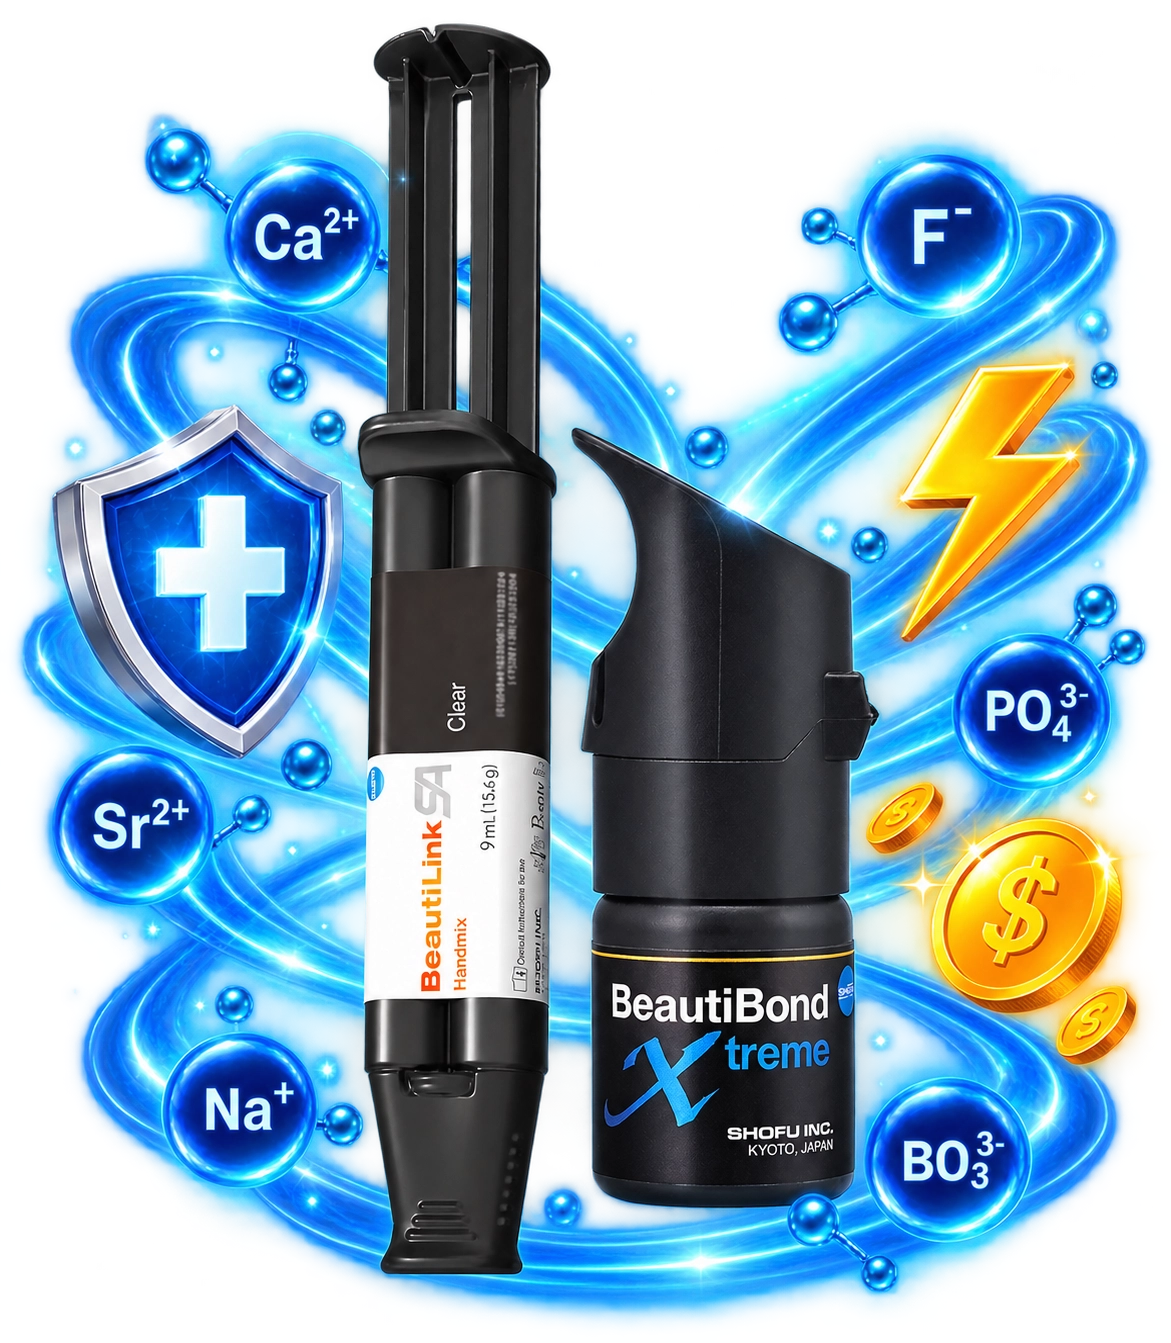
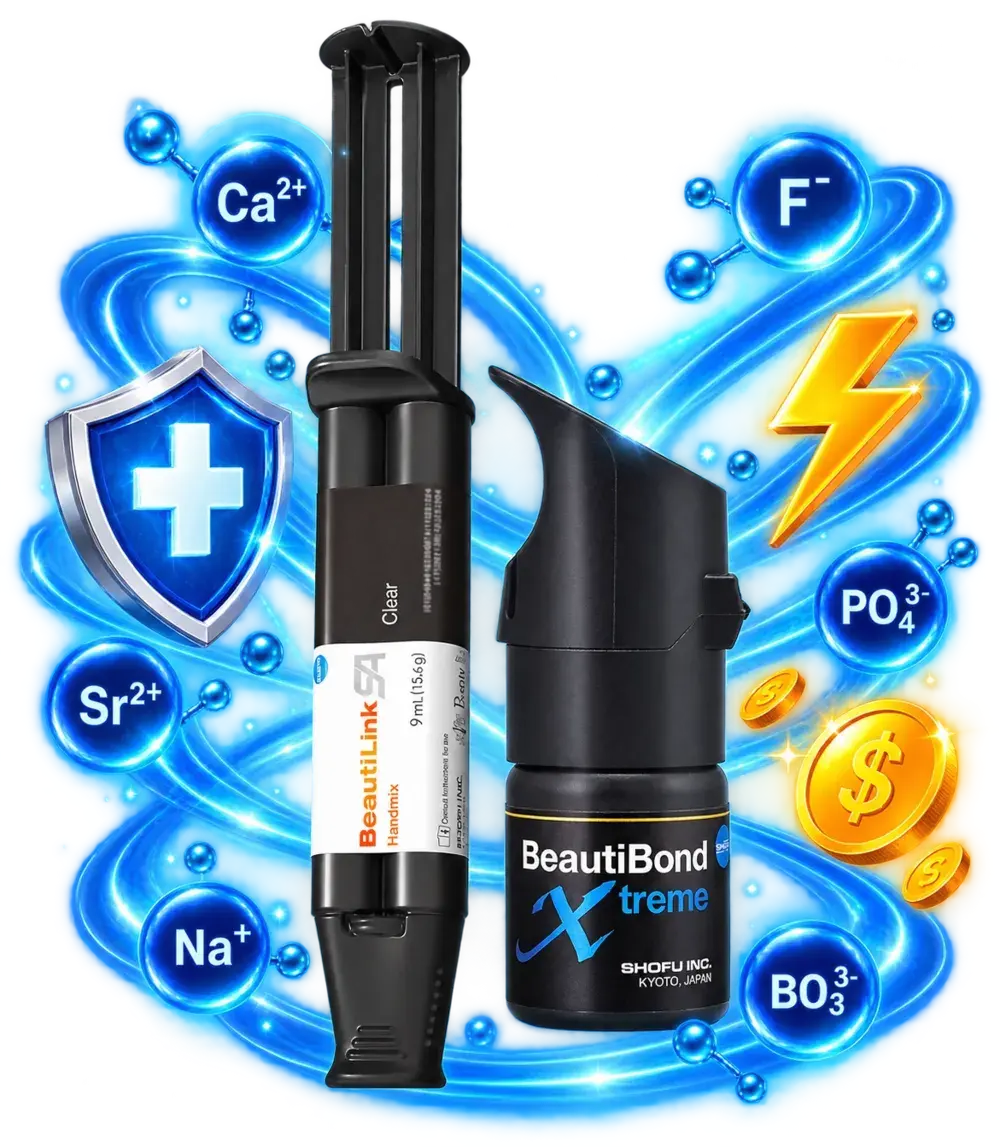
Update and compress beautilink-bbx-new image in IndirectRestoration

diff --git a/src/components/shofu/solutions/IndirectRestoration.tsx b/src/components/shofu/solutions/IndirectRestoration.tsx
@@ -147,7 +147,7 @@ export function IndirectRestoration() {
               <div className="absolute top-1/2 left-1/2 -translate-x-1/2 -translate-y-1/2 w-[100%] h-[100%] bg-gradient-to-tr from-[#00ADEF]/30 to-[#C43838]/30 blur-[60px] rounded-full z-0 animate-pulse"></div>
               <img 
                 referrerPolicy="no-referrer"
-                src="/images/beautilink-bbx.webp" 
+                src="/image/beautilink-bbx-new.webp" 
                 alt="Bộ đôi BBX và BeautiLink SA" 
                 className="w-[80%] max-w-[320px] h-auto object-contain relative z-10 hover:scale-105 transition-transform duration-700 drop-shadow-2xl" 
               />
@@ -204,7 +204,7 @@ export function IndirectRestoration() {
             {/* Bức ảnh WebP tách nền duy nhất */}
             <img 
               referrerPolicy="no-referrer"
-              src="/images/beautilink-bbx.webp" 
+              src="/image/beautilink-bbx-new.webp" 
               alt="Bộ đôi BBX và BeautiLink SA" 
               className="w-full max-w-[550px] h-auto object-contain relative z-10 hover:scale-105 transition-transform duration-700 drop-shadow-2xl" 
             />
@@ -779,7 +779,7 @@ export function IndirectRestoration() {
               <div className="flex justify-center flex-1 w-full md:w-auto">
                 <img 
                   referrerPolicy="no-referrer"
-                  src="/images/beautilink-bbx.webp" 
+                  src="/image/beautilink-bbx-new.webp" 
                   alt="Bộ đôi BBX và BeautiLink SA" 
                   className="w-full max-w-[200px] sm:max-w-[250px] h-auto object-contain drop-shadow-xl hover:scale-105 transition-transform duration-500" 
                   loading="lazy"
@@ -983,7 +983,7 @@ export function IndirectRestoration() {
                 
                 <div className="w-full md:w-[40%] lg:w-[35%] flex justify-center items-center">
                   <img 
-                    src="/images/beautilink-bbx.webp" 
+                    src="/image/beautilink-bbx-new.webp" 
                     alt="Combo BeautiLink SA và BeautiBond Xtreme" 
                     className="w-full max-w-[196px] h-auto object-contain drop-shadow-2xl hover:scale-105 transition-transform duration-500" 
                     referrerPolicy="no-referrer"
